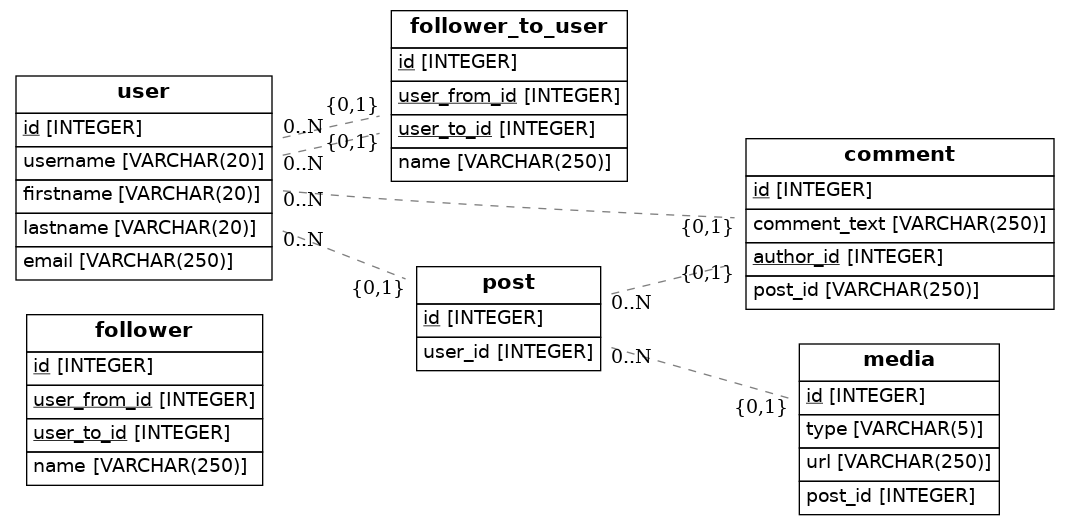
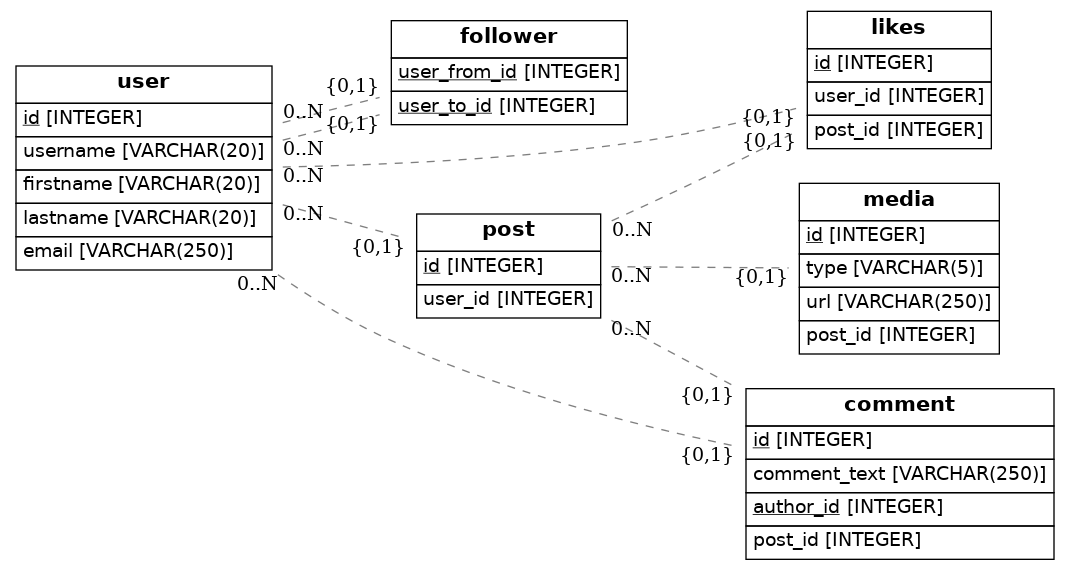
another one

Changed region(s): [[0.0, 0.0, 0.9878, 1.0], [0.0309, 0.579, 0.247, 0.9448], [0.2161, 0.64, 0.247, 0.701]]

diff --git a/src/models.py b/src/models.py
@@ -9,36 +9,48 @@ from eralchemy import render_er
 
 Base = declarative_base()
 
-class Follower(Base):
-    __tablename__ = 'follower'
-    # Here we define columns for the table person
-    # Notice that each column is also a normal Python instance attribute.
-    id = Column(Integer, primary_key=True)
-    user_from_id = Column(Integer, primary_key=True)
-    user_to_id  = Column(Integer, primary_key=True)
-    name = Column(String(250), nullable=False)
-
-class Follower_to_User(Base):
-    __tablename__ = 'follower_to_user'
-    # Here we define columns for the table person
-    # Notice that each column is also a normal Python instance attribute.
-    id = Column(Integer, primary_key=True)
-    user_from_id = Column(Integer, ForeignKey('user.id'),primary_key=True)
-    user_to_id  = Column(Integer,  ForeignKey('user.id'),primary_key=True)
-    name = Column(String(250), nullable=False)
 
 
-class Users(Base):
+class User(Base):
     __tablename__ = 'user'
     # Here we define columns for the table address.
     # Notice that each column is also a normal Python instance attribute.
     id = Column(Integer, primary_key=True)
-    username = Column(String(20),nullable=False)
+    username = Column(String(20),nullable=False,index=True)
     firstname = Column(String(20),nullable=False)
     lastname = Column(String(20),nullable=False)
-    email = Column(String(250), nullable=False)
-    # person = relationship(Person)
+    email = Column(String(250), nullable=False,unique=True)
+   
+
+class Follower(Base):
+    __tablename__ = 'follower'
+    # Here we define columns for the table person
+    # Notice that each column is also a normal Python instance attribute.
+    user_from_id = Column(Integer, ForeignKey('user.id') ,primary_key=True)
+    user_from = relationship(User)
+    user_to_id  = Column(Integer, ForeignKey('user.id') ,primary_key=True)
+    user_to = relationship(User)
     
+    
+class Post(Base):
+    __tablename__ = 'post'
+    # Here we define columns for the table person
+    # Notice that each column is also a normal Python instance attribute.
+    id = Column(Integer, primary_key=True)
+    user_id  = Column(Integer, ForeignKey('user.id'))
+    user = relationship(User)
+
+
+class Likes(Base):
+    __tablename__ = 'likes'
+    id = Column(Integer, primary_key=True)
+    user_id  = Column(Integer, ForeignKey('user.id'))
+    user = relationship(User)
+    post_id = Column(Integer, ForeignKey('post.id'),nullable=False)
+    post = relationship(Post)
+
+
+
 class Comment(Base):
     __tablename__ = 'comment'
     # Here we define columns for the table person
@@ -46,15 +58,11 @@ class Comment(Base):
     id = Column(Integer, primary_key=True)
     comment_text = Column(String(250), nullable=False)
     author_id = Column(Integer, ForeignKey('user.id'),primary_key=True)
-    post_id = Column(String(250), ForeignKey('post.id'),nullable=False)
-
-class Post(Base):
-    __tablename__ = 'post'
-    # Here we define columns for the table person
-    # Notice that each column is also a normal Python instance attribute.
-    id = Column(Integer, primary_key=True)
-    user_id  = Column(Integer, ForeignKey('user.id'))
+    author = relationship(User)
+    post_id = Column(Integer, ForeignKey('post.id'),nullable=False)
+    post = relationship(Post)
     
+
 class MyEnum(enum.Enum):
     video = 1
     photo = 2
@@ -66,6 +74,7 @@ class Media(Base):
     type = Column(Enum(MyEnum))
     url  = Column(String(250),nullable=False)
     post_id = Column(Integer, ForeignKey('post.id'))
+    post = relationship(Post)
 
 
 
